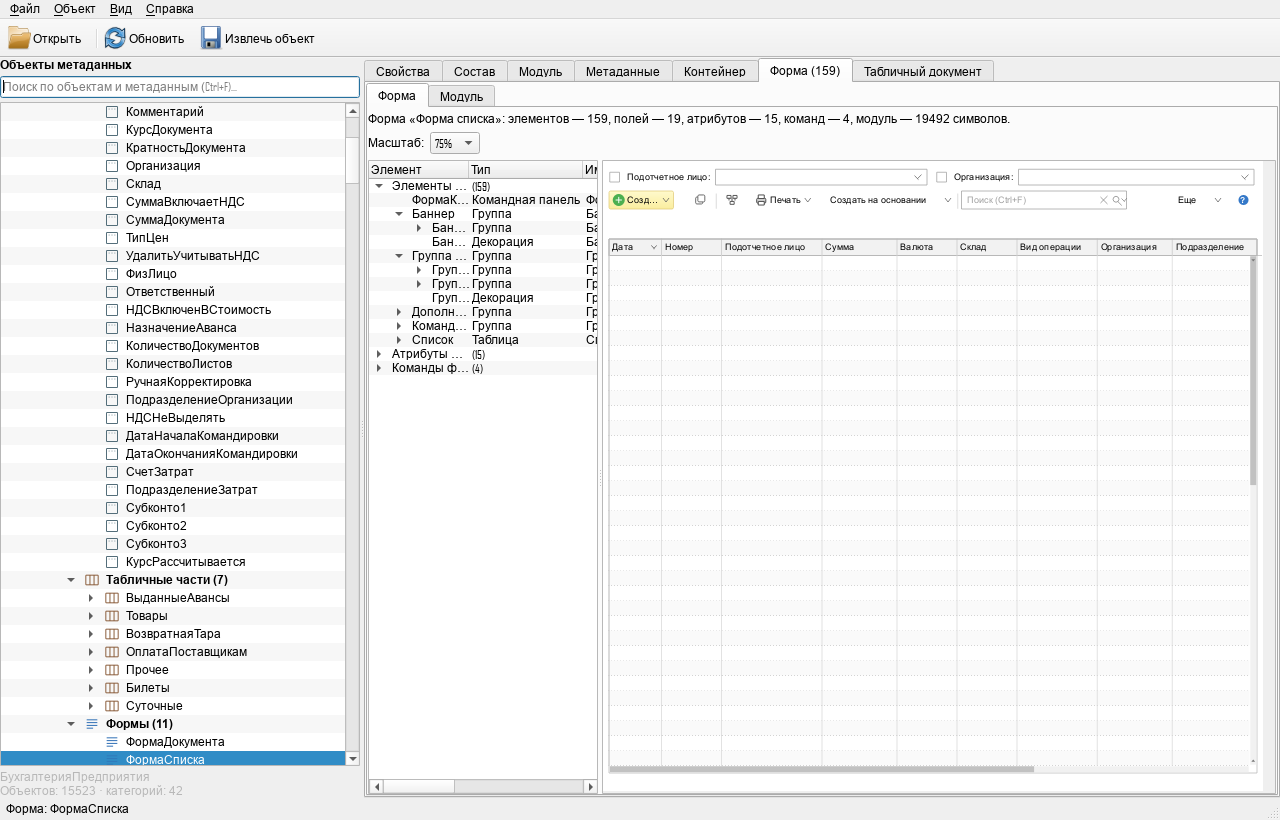
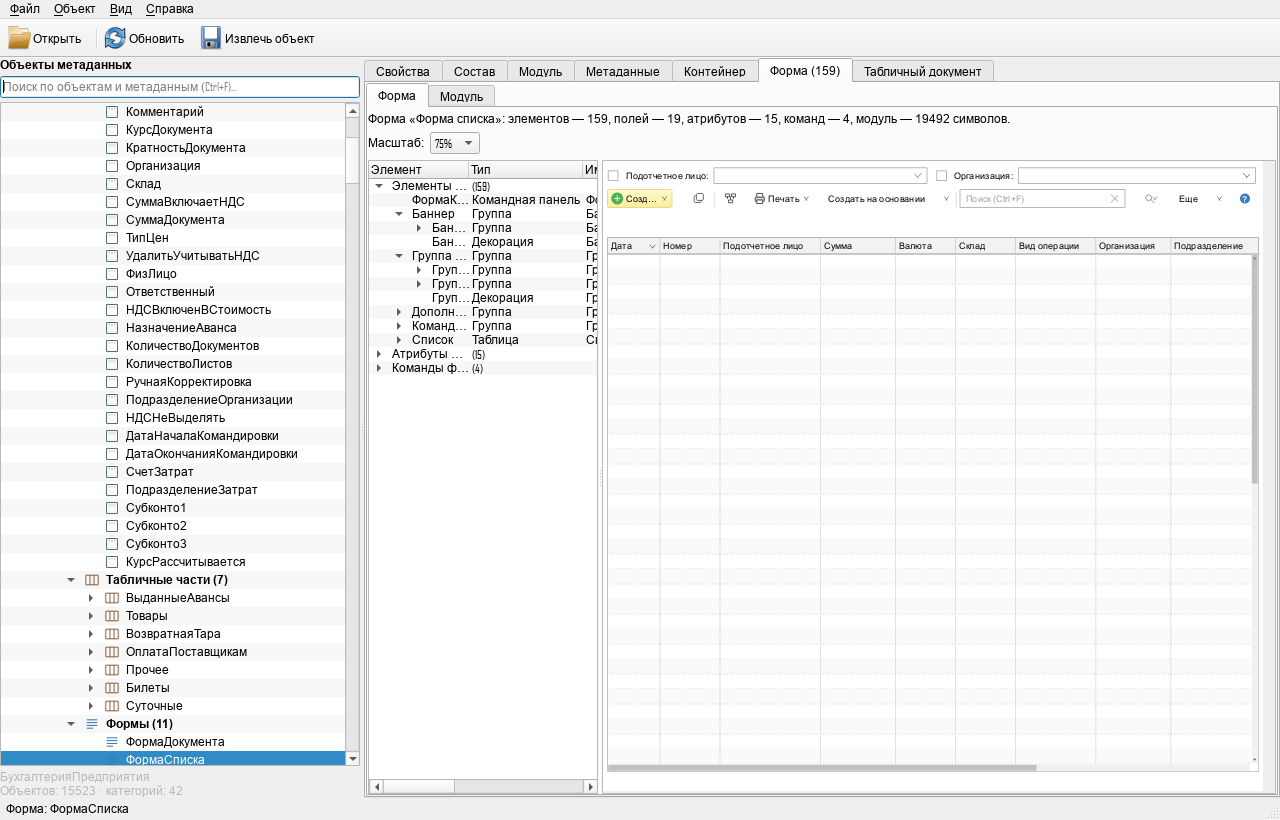
feat(forms): отдельная кнопка поиска и компактные поля

Changed region(s): [[0.4688, 0.2134, 1.0, 0.4268], [0.4688, 0.9146, 0.8125, 0.9451], [0.9688, 0.4573, 1.0, 0.5793]]

diff --git a/src/gui/FormView.cpp b/src/gui/FormView.cpp
@@ -73,7 +73,7 @@ enum class ButtonIcon {
 
 struct PreviewControl
 {
-    enum class Kind { Field, Button, Table, PageTab, Decoration, Search, Separator };
+    enum class Kind { Field, Button, Table, PageTab, Decoration, Search, SearchOptions, Separator };
     Kind kind = Kind::Field;
     ButtonIcon icon = ButtonIcon::None;
     bool iconOnly = false;
@@ -360,7 +360,11 @@ private:
             return std::min(240.0, width);
         }
         case Type::Search:
-            return item.name.contains(QStringLiteral("СтрокаПоиска")) ? 220.0 : 40.0;
+            if (item.name.contains(QStringLiteral("СтрокаПоиска")))
+                return 220.0;
+            if (item.name.contains(QStringLiteral("УправлениеПоиском")))
+                return 20.0;
+            return 40.0;
         case Type::Table:
             return 340.0;
         case Type::Decoration:
@@ -644,12 +648,6 @@ private:
         for (const v8reader::FormItem *item : items) {
             if (item->name.endsWith(QStringLiteral("Использование")))
                 continue;
-            // Служебный элемент «управление поиском» платформа рисует
-            // маленькой кнопкой-магнитиком; в предпросмотре он не нужен.
-            if (item->type == v8reader::FormItem::Type::Search
-                && item->name.contains(QStringLiteral("УправлениеПоиском"))) {
-                continue;
-            }
             visible.append(item);
         }
         if (visible.isEmpty())
@@ -741,7 +739,11 @@ private:
         }
 
         auto estimatedWidth = [&](const v8reader::FormItem *item) {
-            double width = std::max(34.0, preferredWidth(*item));
+            double width = preferredWidth(*item);
+            const bool searchOptions = item->type == v8reader::FormItem::Type::Search
+                && item->name.contains(QStringLiteral("УправлениеПоиском"));
+            if (!searchOptions)
+                width = std::max(34.0, width);
             if (dropDownButtons.contains(item))
                 width += 12.0;
             return width;
@@ -925,15 +927,20 @@ private:
                                       FormStyle::buttonHeight), buttonDropDown);
             return;
         case Type::Search:
-            if (!item.name.contains(QStringLiteral("СтрокаПоиска")))
-                return;
-            {
+            if (item.name.contains(QStringLiteral("СтрокаПоиска"))) {
                 PreviewControl control;
                 control.kind = PreviewControl::Kind::Search;
                 control.rect = QRectF(rect.left(), rect.top(),
                                       std::min(rect.width(), 220.0),
                                       FormStyle::buttonHeight);
                 control.title = QStringLiteral("Поиск (Ctrl+F)");
+                m_controls->append(control);
+            } else if (item.name.contains(QStringLiteral("УправлениеПоиском"))) {
+                PreviewControl control;
+                control.kind = PreviewControl::Kind::SearchOptions;
+                control.rect = QRectF(rect.left(), rect.top(),
+                                      std::min(rect.width(), 20.0),
+                                      FormStyle::buttonHeight);
                 m_controls->append(control);
             }
             return;
@@ -1430,18 +1437,22 @@ void paintControl(QPainter &painter, const PreviewControl &control,
         painter.setBrush(Qt::NoBrush);
         painter.setPen(QColor(160, 160, 160));
         const double cy = rect.center().y();
-        painter.drawText(rect.adjusted(8, 0, -46, 0),
+        painter.drawText(rect.adjusted(8, 0, -26, 0),
                          Qt::AlignLeft | Qt::AlignVCenter, control.title);
         painter.setPen(QColor(130, 130, 130));
         // Очистка строки поиска.
-        painter.drawLine(QPointF(rect.right() - 34.0, cy - 4.0),
-                         QPointF(rect.right() - 26.0, cy + 4.0));
-        painter.drawLine(QPointF(rect.right() - 34.0, cy + 4.0),
-                         QPointF(rect.right() - 26.0, cy - 4.0));
-        // Кнопка поиска/настроек поиска.
-        painter.drawEllipse(QPointF(rect.right() - 14.0, cy - 1.0), 4.0, 4.0);
-        painter.drawLine(QPointF(rect.right() - 11.0, cy + 2.0),
-                         QPointF(rect.right() - 7.0, cy + 6.0));
+        painter.drawLine(QPointF(rect.right() - 18.0, cy - 4.0),
+                         QPointF(rect.right() - 10.0, cy + 4.0));
+        painter.drawLine(QPointF(rect.right() - 18.0, cy + 4.0),
+                         QPointF(rect.right() - 10.0, cy - 4.0));
+        break;
+    }
+    case PreviewControl::Kind::SearchOptions: {
+        painter.setPen(QColor(120, 120, 120));
+        const double cy = rect.center().y();
+        painter.drawEllipse(QPointF(rect.center().x() - 2.0, cy - 1.0), 4.0, 4.0);
+        painter.drawLine(QPointF(rect.center().x() + 1.0, cy + 2.0),
+                         QPointF(rect.center().x() + 5.0, cy + 6.0));
         painter.drawLine(QPointF(rect.right() - 6.0, cy - 2.0),
                          QPointF(rect.right() - 3.0, cy + 1.0));
         painter.drawLine(QPointF(rect.right() - 3.0, cy + 1.0),
@@ -1683,7 +1694,7 @@ private:
             return;
         }
 
-        const double margin = 8.0;
+        const double margin = 6.0;
         const double contentWidth = kFormWidth - margin * 2.0;
 
         // Высота окна 1С: таблица списка должна занимать всё доступное место,

diff --git a/docs/research/forms-format.md b/docs/research/forms-format.md
@@ -92,7 +92,8 @@
 - командная панель плоская: у кнопок нет фона и рамки, иконки 16×16;
   кнопка по умолчанию («Создать» в форме списка, «Провести и закрыть»
   в форме документа) заливается жёлтым градиентом; строка поиска содержит
-  подсказку, очистку и кнопку поиска с выпадающим списком;
+  подсказку и очистку, рядом с ней — отдельная кнопка поиска с выпадающим
+  списком;
 - при нехватке ширины глобальные команды и служебные кнопки (новости,
   новое окно) сворачиваются в «Еще»; поиск, «Еще» и «?» прижаты к правому
   краю панели. «Еще» и «?» добавляются в любую форму с командной панелью,

diff --git a/CHANGELOG.md b/CHANGELOG.md
@@ -48,7 +48,7 @@
   прокрутки списка со стрелками, а у колонки «Дата»/«Период» — индикатор
   сортировки.
 - Строка поиска оформлена как в 1С: подсказка «Поиск (Ctrl+F)», очистка
-  строки и кнопка поиска с выпадающим списком справа.
+  строки и отдельная кнопка поиска с выпадающим списком справа.
 - Таблица растягивается на свободную высоту окна, а элементы под ней
   (подвал формы) прижимаются к низу, как в 1С; при изменении размера
   панели макет пересчитывается.
